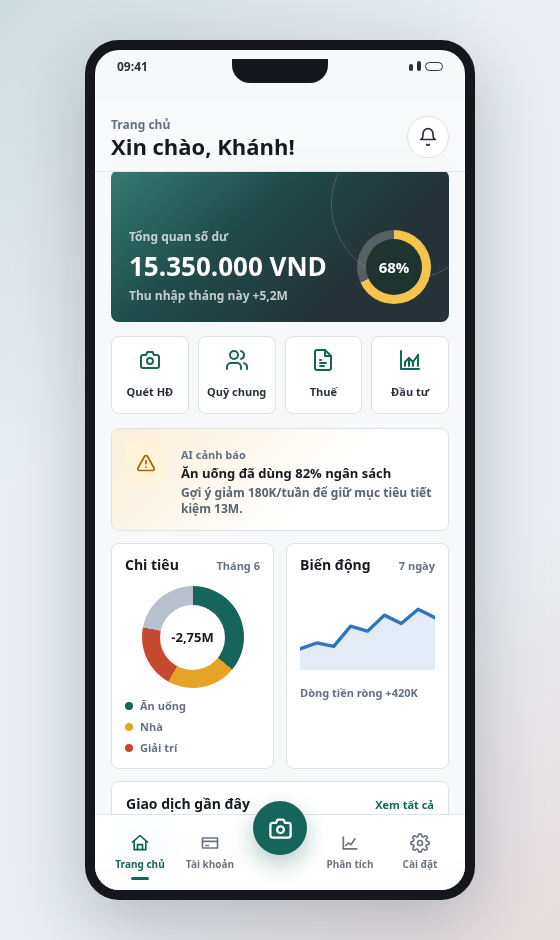
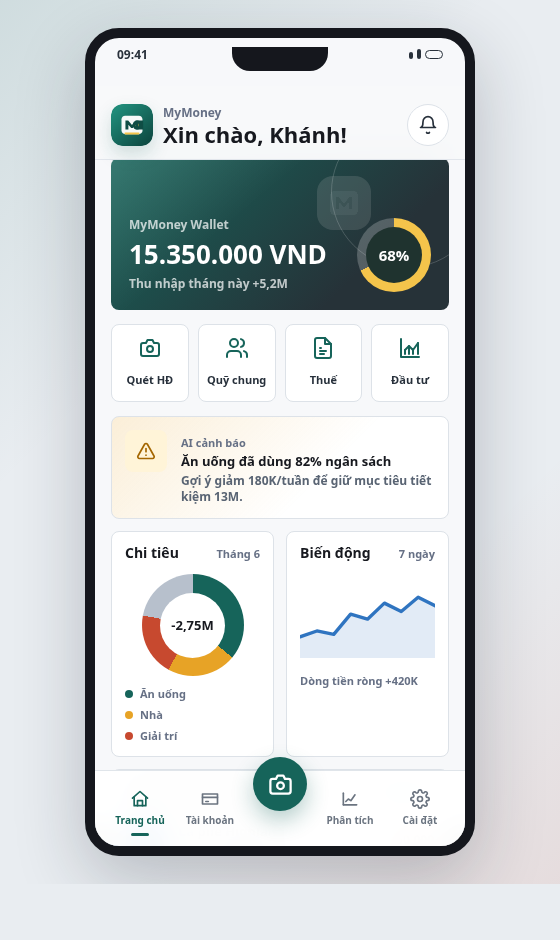
update

Changed region(s): [[0.1518, 0.0309, 0.8804, 1.0]]

diff --git a/styles.css b/styles.css
@@ -176,6 +176,25 @@ svg {
   letter-spacing: 0;
 }
 
+.brand-header {
+  display: flex;
+  align-items: center;
+  min-width: 0;
+  gap: 10px;
+}
+
+.brand-mark {
+  flex: 0 0 auto;
+  width: 42px;
+  height: 42px;
+  border-radius: 12px;
+  box-shadow: 0 8px 18px rgba(22, 100, 90, 0.18);
+}
+
+.brand-header h1 {
+  overflow-wrap: anywhere;
+}
+
 .eyebrow {
   margin: 0;
   color: var(--muted);
@@ -230,6 +249,18 @@ svg {
   height: 150px;
   border: 1px solid rgba(255, 255, 255, 0.18);
   border-radius: 50%;
+}
+
+.balance-brand-mark {
+  position: absolute;
+  z-index: 0;
+  right: 78px;
+  top: 18px;
+  width: 54px;
+  height: 54px;
+  border-radius: 16px;
+  opacity: 0.16;
+  filter: saturate(0) brightness(2.4);
 }
 
 .balance-copy {

diff --git a/index.html b/index.html
@@ -3,8 +3,12 @@
   <head>
     <meta charset="utf-8" />
     <meta name="viewport" content="width=device-width, initial-scale=1" />
-    <title>Tuduy Finance UI Demo</title>
-    <link rel="stylesheet" href="styles.css?v=20260618-fix1" />
+    <title>MyMoney UI Demo</title>
+    <link rel="icon" href="assets/mymoney-mark.svg" type="image/svg+xml" />
+    <link rel="apple-touch-icon" href="assets/mymoney-app-icon.svg" />
+    <link rel="manifest" href="manifest.webmanifest" />
+    <meta name="theme-color" content="#16645a" />
+    <link rel="stylesheet" href="styles.css?v=20260618-mymoney-icons" />
   </head>
   <body>
     <main class="demo-stage" aria-label="Demo giao diện ứng dụng tài chính cá nhân">
@@ -21,9 +25,12 @@
         <div class="screens">
           <section class="screen is-active" data-screen="home" aria-labelledby="home-title">
             <header class="app-header">
-              <div>
-                <p class="eyebrow">Trang chủ</p>
-                <h1 id="home-title">Xin chào, Khánh!</h1>
+              <div class="brand-header">
+                <img class="brand-mark" src="assets/mymoney-mark.svg" alt="" />
+                <div>
+                  <p class="eyebrow">MyMoney</p>
+                  <h1 id="home-title">Xin chào, Khánh!</h1>
+                </div>
               </div>
               <button class="icon-button" type="button" aria-label="Thông báo">
                 <svg viewBox="0 0 24 24" aria-hidden="true">
@@ -34,8 +41,9 @@
             </header>
 
             <article class="balance-panel">
+              <img class="balance-brand-mark" src="assets/mymoney-icon-mono.svg" alt="" />
               <div class="balance-copy">
-                <span>Tổng quan số dư</span>
+                <span>MyMoney Wallet</span>
                 <strong>15.350.000 VND</strong>
                 <small>Thu nhập tháng này +5,2M</small>
               </div>
@@ -1002,6 +1010,6 @@
       </section>
     </main>
 
-    <script src="app.js?v=20260618-fix1"></script>
+    <script src="app.js?v=20260618-mymoney-icons"></script>
   </body>
 </html>

diff --git a/README.md b/README.md
@@ -12,6 +12,7 @@ Demo frontend tĩnh cho giao diện mobile quản lý tài chính cá nhân.
 - Quyết toán thuế với chứng từ hợp lệ và khấu trừ tạm tính.
 - Quỹ chung đồng bộ nhiều thiết bị.
 - Theo dõi danh mục đầu tư.
+- Bộ biểu tượng MyMoney: favicon, app icon, logo header và mark trên ví.
 
 ## Cách mở
 